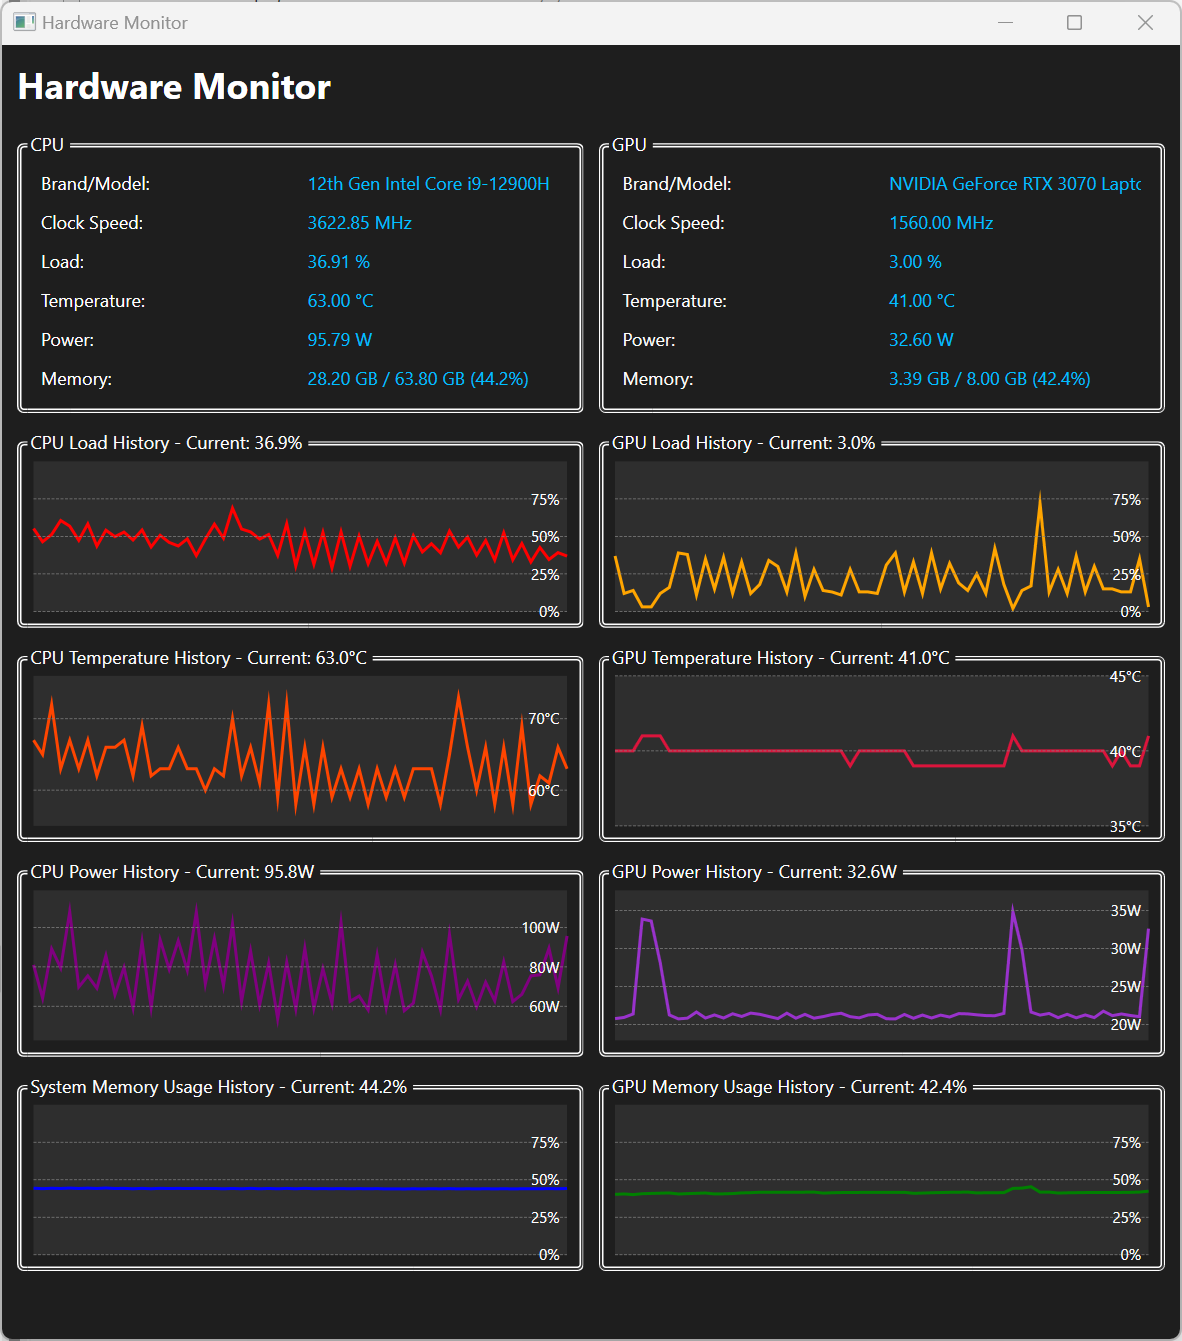
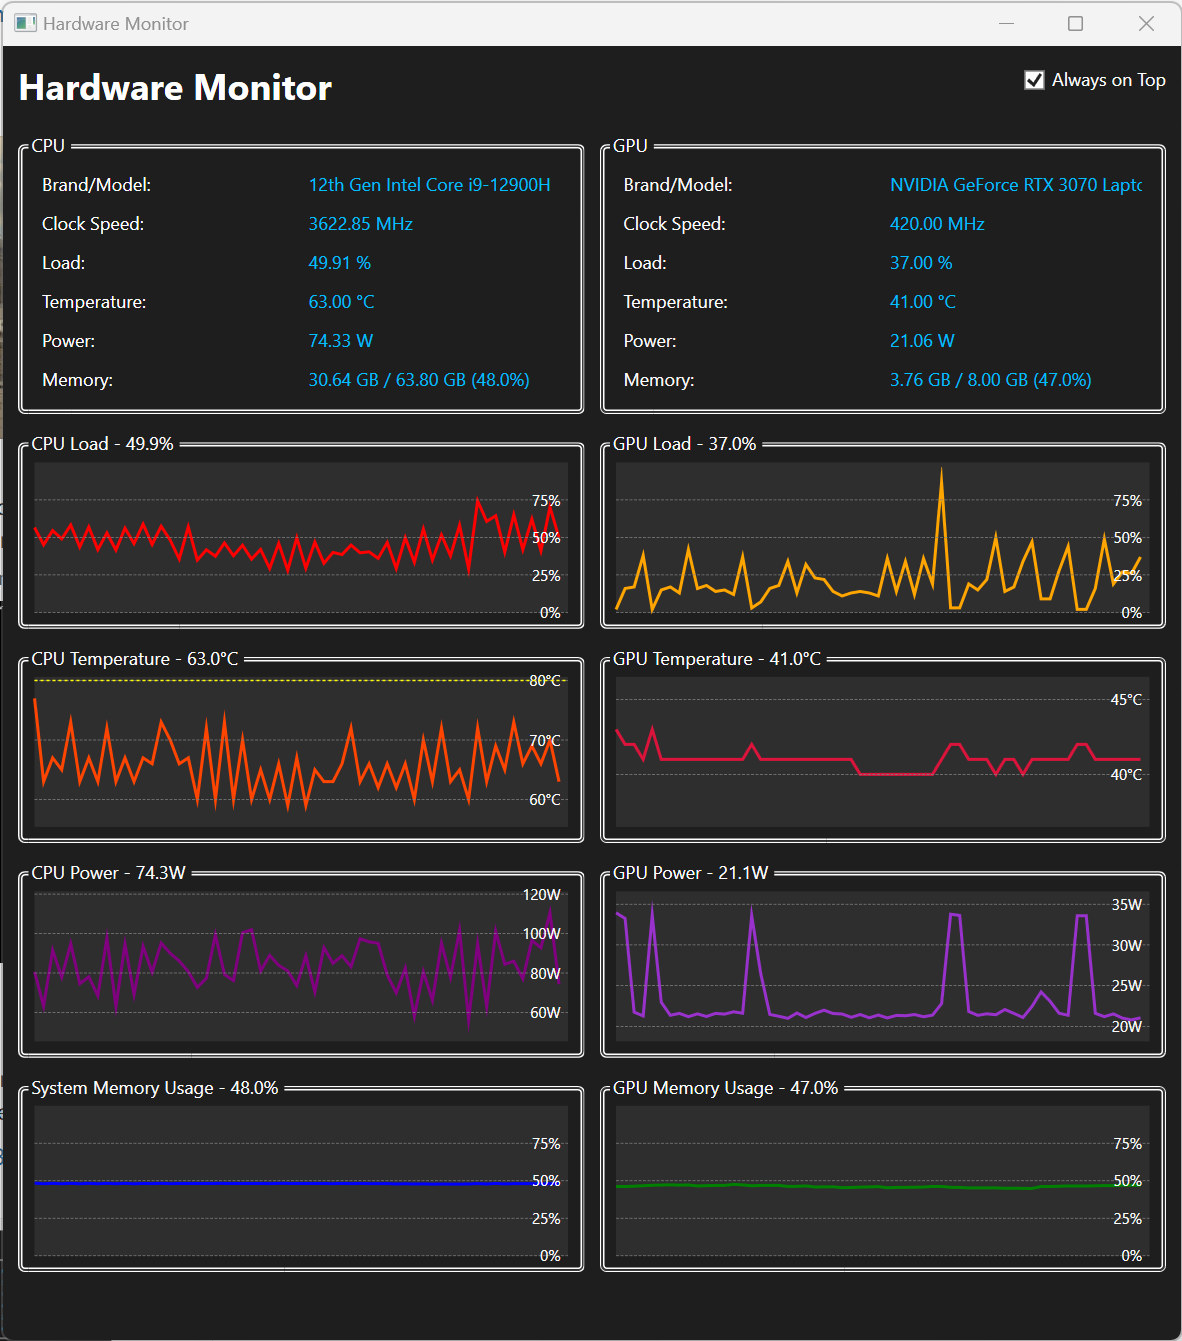
Add option for the app to stay on top

diff --git a/MainWindow.xaml b/MainWindow.xaml
@@ -24,7 +24,14 @@
         </Grid.RowDefinitions>
         
         <!-- Title -->
-        <TextBlock Grid.Row="0" Text="Hardware Monitor" FontSize="24" FontWeight="Bold" Margin="10,10,10,10" Foreground="White"/>
+        <Grid Grid.Row="0">
+            <Grid.ColumnDefinitions>
+                <ColumnDefinition Width="*"/>
+                <ColumnDefinition Width="Auto"/>
+            </Grid.ColumnDefinitions>
+            <TextBlock Grid.Column="0" Text="Hardware Monitor" FontSize="24" FontWeight="Bold" Margin="10,10,10,10" Foreground="White"/>
+            <CheckBox Grid.Column="1" x:Name="AlwaysOnTopCheckBox" Content="Always on Top" Margin="10,15,10,10" Foreground="White" IsChecked="True" Checked="AlwaysOnTopCheckBox_Checked" Unchecked="AlwaysOnTopCheckBox_Unchecked"/>
+        </Grid>
         
         <!-- Main content in two columns -->
         <Grid Grid.Row="1" Margin="5,0">

diff --git a/MainWindow.xaml.cs b/MainWindow.xaml.cs
@@ -34,7 +34,20 @@ namespace HardwareMonitor
             SetupTimer();
 
             // Make the window always stay on top of other windows
+            this.Topmost = false;
+            // Ensure checkbox matches initial state
+            AlwaysOnTopCheckBox.IsChecked = this.Topmost;
+        }
+
+        // Add these event handlers for the Always on Top checkbox
+        private void AlwaysOnTopCheckBox_Checked(object sender, RoutedEventArgs e)
+        {
             this.Topmost = true;
+        }
+
+        private void AlwaysOnTopCheckBox_Unchecked(object sender, RoutedEventArgs e)
+        {
+            this.Topmost = false;
         }
 
         private void InitializeHardwareMonitor()
